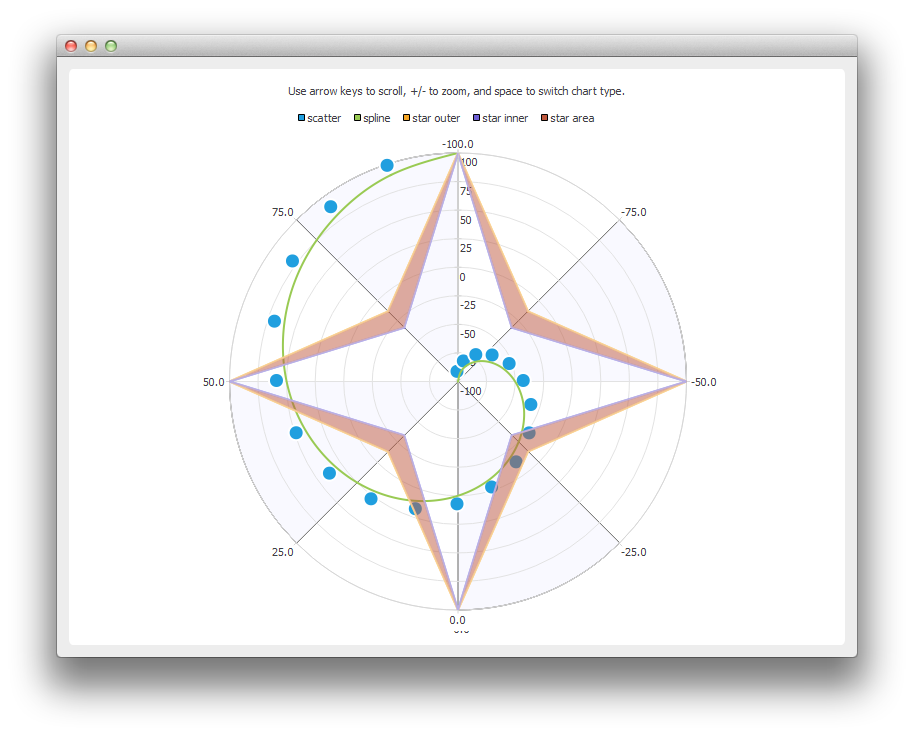
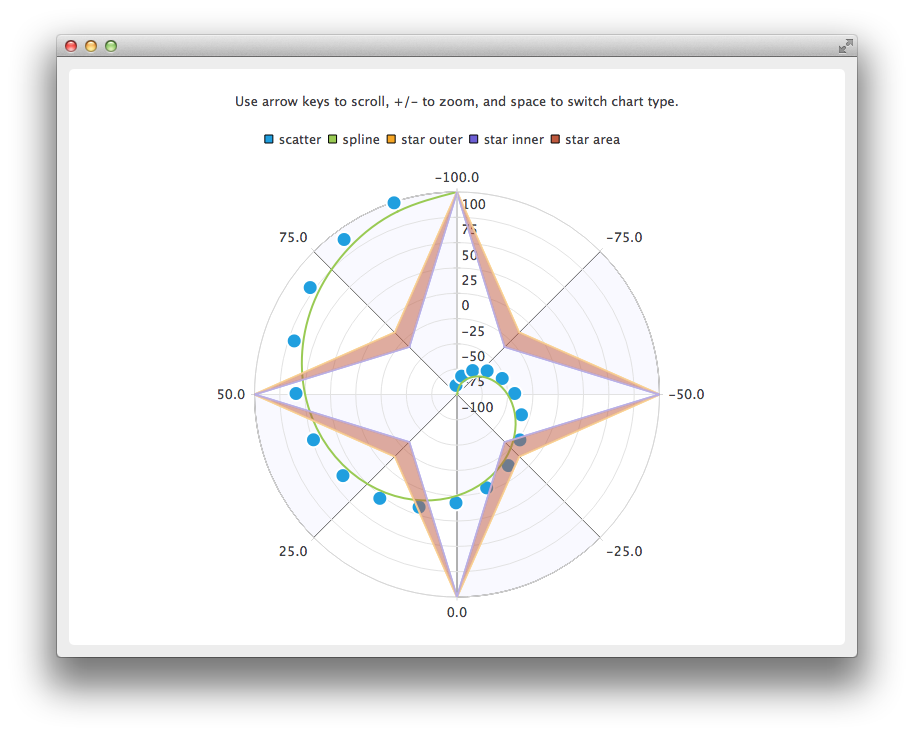
Fix some docs issues
Related to this, also increase size of qmlpolarchart demo.

diff --git a/demos/qmlpolarchart/qml/qmlpolarchart/View3.qml b/demos/qmlpolarchart/qml/qmlpolarchart/View3.qml
@@ -40,15 +40,15 @@ Rectangle {
                 }
                 CategoryRange {
                     label: "low"
-                    endValue: 4
-                }
-                CategoryRange {
-                    label: "normal"
                     endValue: 7
                 }
                 CategoryRange {
+                    label: "normal"
+                    endValue: 12
+                }
+                CategoryRange {
                     label: "high"
-                    endValue: 15
+                    endValue: 18
                 }
                 CategoryRange {
                     label: "extremely high"

diff --git a/demos/qmlpolarchart/qml/qmlpolarchart/loader.qml b/demos/qmlpolarchart/qml/qmlpolarchart/loader.qml
@@ -22,8 +22,8 @@ import QtQuick 1.0
 
 Item {
     id: container
-    width: 400
-    height: 300
+    width: 800
+    height: 600
     Component.onCompleted: {
     var co = Qt.createComponent("main.qml")
     if (co.status == Component.Ready) {

diff --git a/src/piechart/qpieseries.cpp b/src/piechart/qpieseries.cpp
@@ -35,7 +35,7 @@ QTCOMMERCIALCHART_BEGIN_NAMESPACE
 
 /*!
     \class QPieSeries
-    \brief Pie series API for QtCommercial Charts.
+    \brief Pie series API for Qt Charts.
 
     The pie series defines a pie chart which consists of pie slices which are defined as QPieSlice objects.
     The slices can have any values as the QPieSeries will calculate its relative value to the sum of all slices.

diff --git a/src/legend/qlegend.cpp b/src/legend/qlegend.cpp
@@ -52,7 +52,7 @@ QTCOMMERCIALCHART_BEGIN_NAMESPACE
 */
 /*!
     \qmlclass Legend QLegend
-    \brief Legend is part of QtCommercial Chart QML API.
+    \brief Legend is part of Qt Chart QML API.
 
     Legend is a graphical object, whics displays legend of the chart. Legend state is updated by ChartView, when
     series have been changed. Legend is used via ChartView class. For example:

diff --git a/src/qchart.cpp b/src/qchart.cpp
@@ -70,7 +70,7 @@ QTCOMMERCIALCHART_BEGIN_NAMESPACE
 
 /*!
  \class QChart
- \brief Qt Enterprise Chart API.
+ \brief Main chart API for Qt Charts.
 
  QChart is a QGraphicsWidget that you can show in a QGraphicsScene. It manages the graphical
  representation of different types of series and other chart related objects like legend and

diff --git a/src/qabstractseries.cpp b/src/qabstractseries.cpp
@@ -33,7 +33,7 @@ QTCOMMERCIALCHART_BEGIN_NAMESPACE
 
 /*!
     \class QAbstractSeries
-    \brief Base class for all QtCommercial Chart series.
+    \brief Base class for all Qt Chart series.
     \mainclass
 
     Usually you use the series type specific inherited classes instead of the base class.

diff --git a/src/qpolarchart.cpp b/src/qpolarchart.cpp
@@ -34,7 +34,7 @@ QTCOMMERCIALCHART_BEGIN_NAMESPACE
 
 /*!
  \class QPolarChart
- \brief Qt Enterprise Chart API.
+ \brief Polar chart API for Qt Charts.
 
  QPolarChart is a specialization of QChart to show a polar chart.
 
